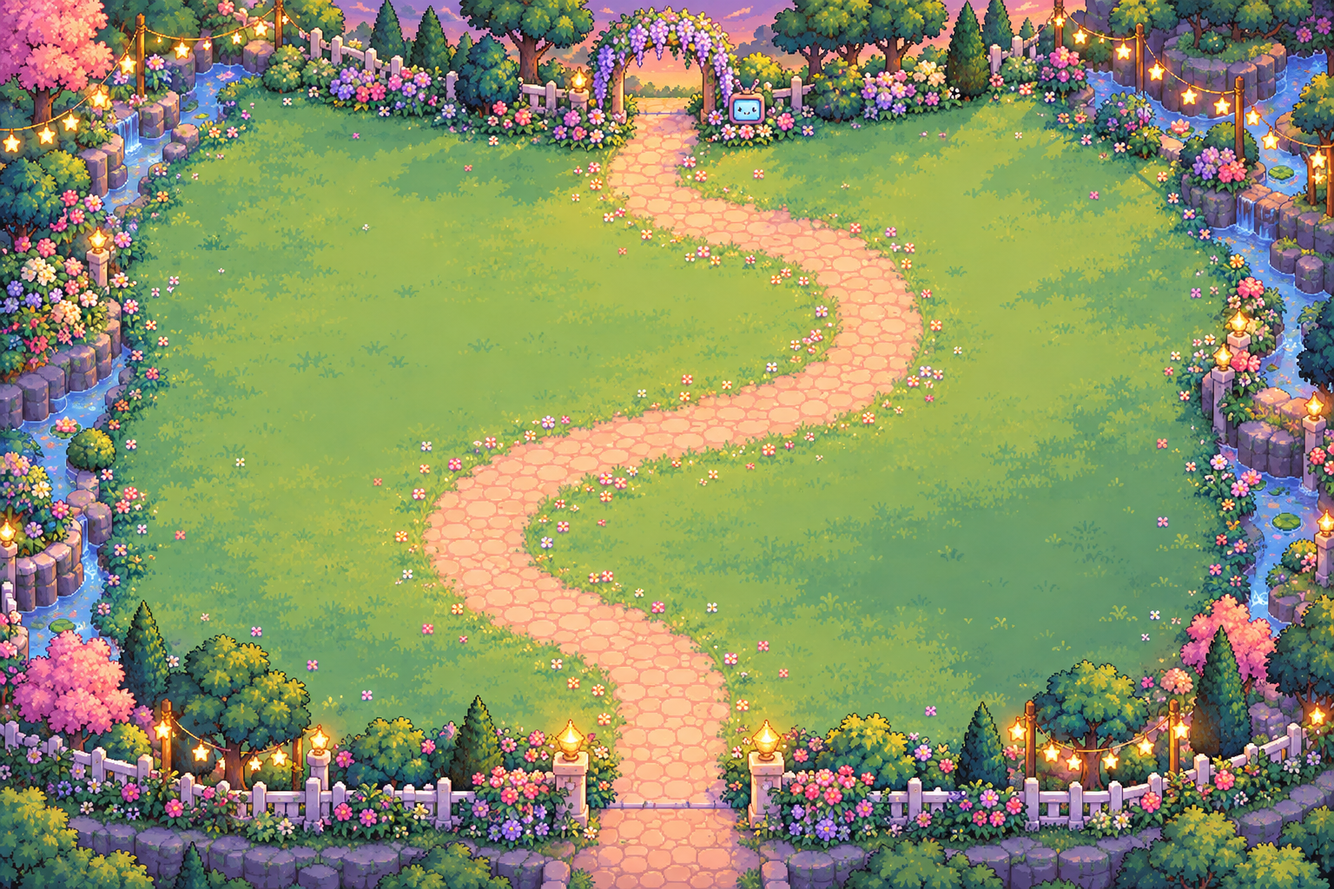
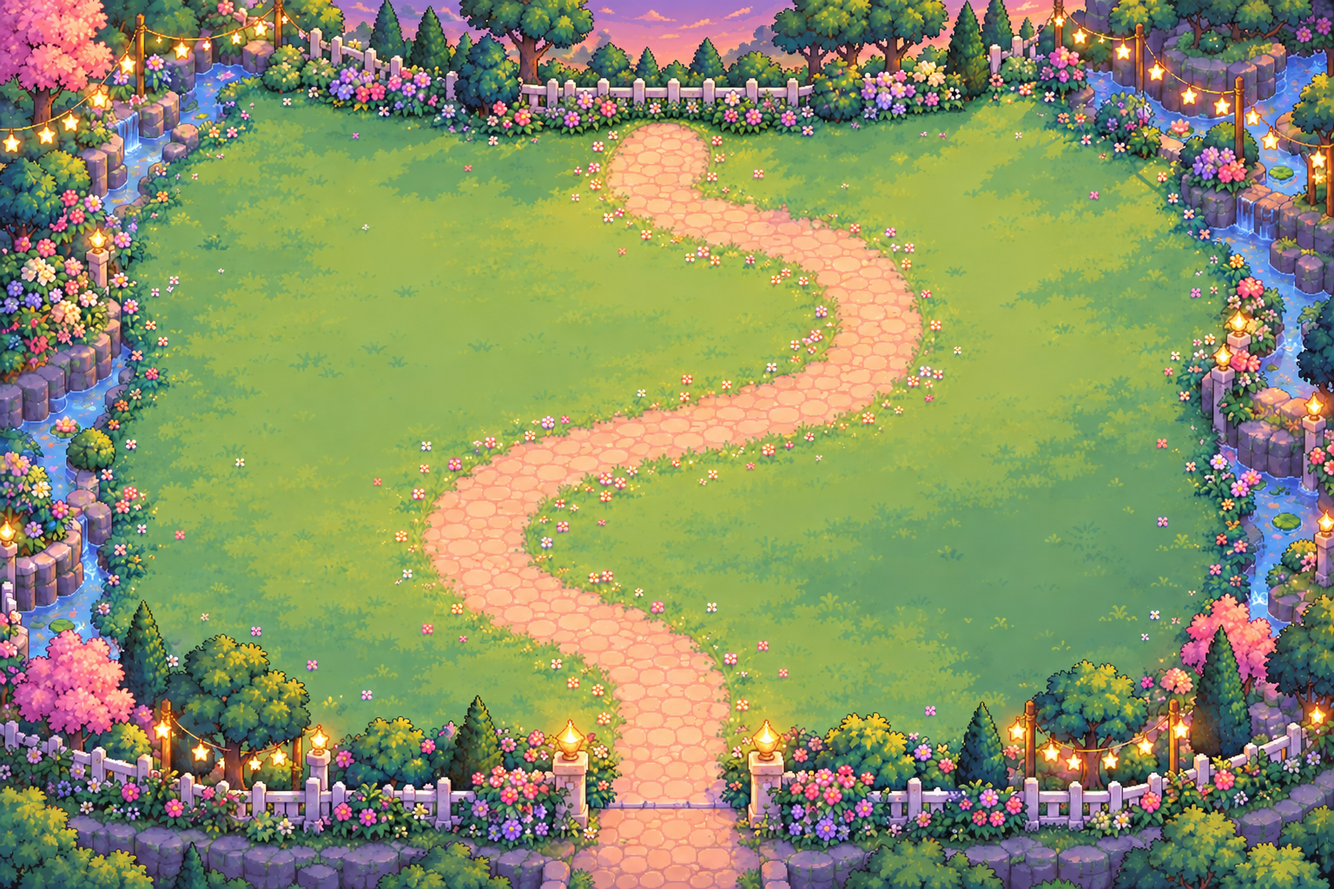
Refine cottage doormat and remove unused garden furnishings

diff --git a/src/door-rug.ts b/src/door-rug.ts
@@ -1,0 +1,92 @@
+// A small floor textile, drawn once at map-pixel resolution. Its gently flared
+// sides follow the room floor; the woven edge and fringe stay above y = 381.
+let rug: HTMLCanvasElement | undefined;
+
+function weaveRug() {
+  const canvas = document.createElement("canvas");
+  canvas.width = 80; canvas.height = 24;
+  const c = canvas.getContext("2d")!;
+  const pixel = (color: string, x: number, y: number, w = 1, h = 1) => {
+    c.fillStyle = color; c.fillRect(x, y, w, h);
+  };
+  const edgeAt = (y: number) => 8 - Math.floor(y / 6);
+
+  // A low, warm contact shadow, never a raised pedestal beneath the mat.
+  pixel("#80574724", 5, 21, 70, 2);
+  pixel("#80574712", 9, 23, 62);
+
+  // Knotted short cotton fringes follow both receding side edges.
+  for (let y = 4; y < 21; y += 3) {
+    const edge = edgeAt(y);
+    pixel("#bfa7a6", edge - 4, y + 1, 5);
+    pixel("#f2e3c7", edge - 4, y, 4);
+    pixel("#ddc8bd", edge - 5, y + (y % 2), 1);
+    pixel("#bfa7a6", 79 - edge, y + 1, 5);
+    pixel("#f2e3c7", 80 - edge, y, 4);
+    pixel("#ddc8bd", 84 - edge, y + (y % 2), 1);
+  }
+
+  for (let y = 0; y < 22; y++) {
+    const edge = edgeAt(y) + (y === 0 || y === 21 ? 1 : 0);
+    pixel(y === 21 ? "#b496a4" : "#bba2b4", edge, y, 80 - edge * 2);
+    if (y < 1 || y > 20) continue;
+    pixel(y % 3 === 0 ? "#dac6ce" : "#e9d7d5", edge + 1, y, 78 - edge * 2);
+    if (y < 4 || y > 17) continue;
+    pixel(y % 3 === 0 ? "#e9d9c4" : "#efe1cc", edge + 4, y, 72 - edge * 2);
+    // Broken, staggered warp threads: no hard checkerboard or flat fill.
+    for (let x = edge + 5; x < 75 - edge; x += 3) {
+      if ((x + y) % 4 === 0) pixel("#f7ecd8", x, y);
+      else if ((x * 3 + y * 7) % 11 === 0) pixel("#ddcdbf", x, y);
+    }
+  }
+
+  // Lilac binding, alternating cream stitches, and a rose inner running seam.
+  for (const y of [2, 19]) {
+    const edge = edgeAt(y);
+    for (let x = edge + 2; x < 78 - edge; x += 4) {
+      pixel("#c2b0c5", x, y, 2);
+      pixel("#f8ead7", x + 2, y + (y === 2 ? 1 : -1));
+    }
+  }
+  for (let y = 5; y < 18; y += 3) {
+    const edge = edgeAt(y);
+    pixel("#d0adb8", edge + 2, y);
+    pixel("#d0adb8", 77 - edge, y);
+  }
+
+  const blossom = (x: number, y: number) => {
+    pixel("#d6b0bd", x - 1, y - 1, 3, 3);
+    pixel("#f8e9db", x, y - 2); pixel("#f8e9db", x, y + 2);
+    pixel("#f8e9db", x - 2, y); pixel("#f8e9db", x + 2, y);
+    pixel("#d6b784", x, y);
+  };
+  // Two little floral sprays leave the middle embroidery breathing room.
+  for (const [x, direction] of [[19, -1], [60, 1]]) {
+    pixel("#b3b49a", x + direction * 2, 14, 3);
+    pixel("#a9af95", x + direction * 5, 12, 2);
+    pixel("#c0c2a8", x + direction * 6, 11);
+    blossom(x, 10);
+    pixel("#cbb7d1", x + direction * 7, 16, 2);
+    pixel("#e8dbe4", x + direction * 7, 15);
+  }
+
+  // A softly stitched pink fox: cream cheeks, tiny green/rose eyes and a curl.
+  pixel("#c69baa", 33, 6, 3, 4); pixel("#c69baa", 44, 6, 3, 4);
+  pixel("#f4ddcf", 34, 7, 1, 2); pixel("#f4ddcf", 45, 7, 1, 2);
+  pixel("#d9acbb", 35, 8, 10, 2);
+  pixel("#d9acbb", 34, 10, 12, 5);
+  pixel("#d9acbb", 33, 11, 14, 3);
+  pixel("#cba2af", 35, 15, 10);
+  pixel("#ecd3ce", 38, 16, 4);
+  pixel("#f7ead6", 34, 12, 4, 2); pixel("#f7ead6", 42, 12, 4, 2);
+  pixel("#f4e3cf", 36, 14, 8); pixel("#f4e3cf", 38, 13, 4, 3);
+  pixel("#8fa39a", 36, 11); pixel("#b47e92", 43, 11);
+  pixel("#aa7a8d", 39, 13, 2);
+  pixel("#e9c5ce", 39, 7, 2); pixel("#e9c5ce", 41, 8);
+  return canvas;
+}
+
+export function drawDoorRug(context: CanvasRenderingContext2D) {
+  rug ??= weaveRug();
+  context.drawImage(rug, 260, 357);
+}

diff --git a/src/nature.ts b/src/nature.ts
@@ -224,7 +224,8 @@ export class Nature {
       return true;
     }
     if (id === "rest") {
-      const bench = this.world.config.spots.find((s) => s.id === "rest")!;
+      const bench = this.world.config.spots.find((s) => s.id === "rest");
+      if (!bench) return false;
       this.world.sit(bench, bench.approach);
       this.activities.menu(
         `在长椅上坐下了 · 现在是${phaseNames[this.clock.phase]}，歇一会再走吧`,
@@ -258,7 +259,7 @@ export class Nature {
     }
     const spot = this.world.config.spots.find((s) => s.id === id)!;
     if (!this.available(spot)) {
-      this.toast("这份小惊喜正在等另一个时刻。坐坐长椅，也许会有新发现。");
+      this.toast("这份小惊喜正在等另一个时刻。去勇气花园的长椅歇一会，也许会有新发现。");
       return true;
     }
     this.mark(id);
@@ -352,7 +353,7 @@ export class Nature {
     time.textContent = ruins ? "♫ 遗迹 · 长明灯" : meadow ? "☾ 花海 · 静夜" : `${{ dawn: "☀", day: "☀", dusk: "◒", night: "☾" }[clock.phase]} ${clock.label} · ${phaseNames[clock.phase]}`;
     time.setAttribute(
       "title",
-      ruins ? "地底的石灯昼夜长明" : meadow ? "花海长夜，庭院的时钟仍在走动" : `第 ${clock.day} 天 · 现实十分钟为一天；花园长椅可休息到下一时段`,
+      ruins ? "地底的石灯昼夜长明" : meadow ? "花海长夜，庭院的时钟仍在走动" : `第 ${clock.day} 天 · 现实十分钟为一天；勇气花园长椅可休息到下一时段`,
     );
     document.querySelector(".bag-count")!.textContent =
       `苹果 ${this.state.apple} · 花朵 ${this.state.flower} · 星屑 ${this.state.star}`;
@@ -367,7 +368,7 @@ export class Nature {
     );
     crown.setAttribute("aria-pressed", String(wearing));
     document.querySelector(".day-hint")!.textContent = ruins ? "石廊里的三块铭文，记着一段遗忘的晚安。" : meadow ? "草间有落星，营火旁有一只收着星光的玻璃瓶。" :
-      `第 ${clock.day} 天 · 十分钟一昼夜 · ${clock.phase === "dawn" ? "晨露花醒来了" : clock.phase === "dusk" ? "溪边漂来一只纸船" : clock.phase === "night" ? "萤火心愿悄悄出现" : "找长椅休息，等一场黄昏和星夜"}`;
+      `第 ${clock.day} 天 · 十分钟一昼夜 · ${clock.phase === "dawn" ? "晨露花醒来了" : clock.phase === "dusk" ? "溪边漂来一只纸船" : clock.phase === "night" ? "萤火心愿悄悄出现" : "去勇气花园的长椅休息，等一场黄昏和星夜"}`;
   }
   refreshClock() {
     this.lastUi = 0;
@@ -442,7 +443,7 @@ export class Nature {
       return [];
     const scene = this.world.scene,
       apple = this.world.config.spots.find((s) => s.id === "apple")!,
-      bench = this.world.config.spots.find((s) => s.id === "rest")!;
+      bench = this.world.config.spots.find((s) => s.id === "rest");
     return [
       ...(scene === "garden" ? [{ y: 479, draw: (c: CanvasRenderingContext2D) => this.world.drawMapFragment(c, gardenSign) }] : []),
       ...gardenTrees[scene].map((tree) => ({
@@ -465,13 +466,13 @@ export class Nature {
           }
         },
       },
-      {
+      ...(bench ? [{
         y: bench.y - 4,
         draw: (c: CanvasRenderingContext2D) => {
           if (this.benchImage.complete && this.benchImage.naturalWidth)
             c.drawImage(this.benchImage, bench.x - 38, bench.y - 25, 76, 46);
         },
-      },
+      }] : []),
     ];
   }
   private lighting(c: CanvasRenderingContext2D) {

diff --git a/src/help.ts b/src/help.ts
@@ -11,7 +11,7 @@ export const helpMarkup = `
     <div><dt>寻找互动</dt><dd>留意物件边缘偶尔闪过的微光；走近后会出现「翻开相册」「与红笺交谈」等动作提示。键盘操作显示 E，鼠标远处悬停显示「点击走近」，手机可以轻触。花朵、星星与遗迹机关保留自己的光效；关闭背包或收起对白后，附近的提示会重新出现。</dd></div>
     <div><dt>背包与衣橱</dt><dd>点地图左侧的草莓背包或按 B。点格子试穿，用人物下方的箭头转身。「佩戴」确认搭配，「脱下」取下饰品，桃桃和棉棉可选「同行」或「休息」。粉框标出当前选择，绿勾标出身上的物品。换好一件可以接着挑，按 B / Esc 或点 × 收起，未确认的试穿会取消。H 可快捷戴上或摘下花环。</dd></div>
     <div><dt>找配饰与纪念物</dt><dd>衣橱可以按头饰、衣服、鞋子、背包、胸针、同行伙伴筛选。「全部」可以看整套收藏。手机点部位按钮选分类，用箭头翻页，点「身上」查看当前搭配。青芽送的洋桔梗和守护者赠的书收在「纪念物」里。</dd></div>
-    <div><dt>菜单与返回</dt><dd>Tab / Shift+Tab 切换按钮，Enter / 空格确认，也可直接用鼠标点击。探索时打开背包可继续走动、点击地图和使用触屏方向。小游戏中打开衣橱会暂停本局，B / Esc 收起后继续。小游戏按 P 或「暂停休息」暂停；切到其他窗口后会自动暂停，回来按 P / E 或「继续挑战」。坐下或躺下后按 E、方向键或「起身」继续探索。</dd></div>
+    <div><dt>菜单与返回</dt><dd>Tab / Shift+Tab 切换按钮，Enter / 空格确认，也可直接用鼠标点击。探索时打开背包可继续走动、点击地图和使用触屏方向。小游戏中打开衣橱会暂停本局，B / Esc 收起后继续。小游戏按 P 或「暂停休息」暂停；切到其他窗口后会自动暂停，回来按 P / E 或「继续挑战」。勇气花园的长椅可以坐下休息并等到下一时段，小屋的床可以躺下；按 E、方向键或「起身」继续探索。</dd></div>
     <div><dt>周年小互动</dt><dd>蜡烛：按住 E / 空格 / 右键，或长按场景按钮吹灭。蛋糕：用鼠标依次沿三条虚线拖动，切成六份；也可按 E / 空格辅助切割。点小蛋糕或「吃一块」观看芙芙吃蛋糕。礼物：点或向外拖开两端缎带，也可按 1 解开左端、按 2 解开右端。之后按 E / 空格掀开盒盖、收下心意，收到缎带鞋后可以从背包穿上。气球和烟花：点场景按钮或按互动键。</dd></div>
     <div><dt>小屋回忆相册</dt><dd>翻开相册，可以看芙芙的四幅日常插画：早餐、读书、练贝斯和陪小狐狸。点缩略图或用 Tab、Enter 选图，Esc 收起继续探索。</dd></div>
     <div><dt>小镇与遗迹小游戏</dt><dd>贪吃蛇用方向键。方块左右移动、上键旋转、下键加速、空格落下。跳一跳长按蓄力、松开跳。晚安飞行轻按空格拍翅，碰到的星星会消失。连连看点击相同图案，或方向键选格、空格确认，有提示和洗牌。黄金矿工看准方向按空格放钩。每款游戏都支持鼠标和触屏。达标领奖后选「继续游玩」，双倍目标另有奖励，Esc 离开。</dd></div>

diff --git a/src/maps.ts b/src/maps.ts
@@ -357,11 +357,11 @@ export const scenes: Record<SceneId, Scene> = {
     width: 900,
     height: 600,
     bounds: { x: 56, y: 51, w: 789, h: 525 },
-    // Inside the banks and the woodland, with independent openings at both arches.
+    // The north edge ends at the flowering hedge; only the southern gate is an exit.
     floor: [
       [96,135],[109,114],[128,96],[157,87],[164,72],[193,68],[224,72],
-      [248,78],[282,77],[319,87],[351,97],[392,104],[415,99],[420,75],
-      [469,75],[475,94],[491,99],[524,94],[557,89],[588,85],[620,80],
+      [248,78],[282,77],[319,87],[351,97],[392,104],
+      [491,99],[524,94],[557,89],[588,85],[620,80],
       [648,72],[675,65],[705,65],[730,81],[749,98],[775,106],[784,124],
       [786,151],[802,171],[822,181],[833,202],[821,226],[810,242],[803,259],
       [809,287],[825,306],[831,325],[824,347],[817,370],[810,399],[815,415],
@@ -480,10 +480,20 @@ for (const id of ["garden", "challenge"] as const) {
   }
   const flowers = id === "garden" ? { x: 548, y: 410 } : { x: 170, y: 267 };
   const drop = id === "garden" ? { x: 590, y: 365 } : { x: 295, y: 225 };
-  const bench = id === "garden" ? { x: 385, y: 420 } : { x: 560, y: 430 };
-  outdoor.walls.push(polygon("休息长椅", [
-    [-27,0],[26,0],[30,6],[28,16],[22,18],[20,13],[-19,13],[-21,18],[-27,16],[-30,7],
-  ].map(([dx,dy]) => [bench.x+dx,bench.y+dy])));
+  if (id === "challenge") {
+    const bench = { x: 560, y: 430 };
+    outdoor.walls.push(polygon("休息长椅", [
+      [-27,0],[26,0],[30,6],[28,16],[22,18],[20,13],[-19,13],[-21,18],[-27,16],[-30,7],
+    ].map(([dx,dy]) => [bench.x+dx,bench.y+dy])));
+    outdoor.spots.push({
+      id: "rest",
+      title: "在勇气花园里歇一会",
+      ...bench,
+      approach: { x: 560, y: 457 },
+      radius: 50,
+      color: "#97c9ce",
+    });
+  }
   outdoor.spots.push(
     {
       id: "apple",
@@ -522,15 +532,6 @@ for (const id of ["garden", "challenge"] as const) {
       approach: { x: drop.x, y: drop.y + 15 },
       radius: 38,
       color: "#e4c776",
-    },
-    {
-      id: "rest",
-      title: "在花园里歇一会",
-      x: id === "garden" ? 385 : 560,
-      y: id === "garden" ? 420 : 430,
-      approach: id === "garden" ? { x: 385, y: 447 } : { x: 560, y: 457 },
-      radius: 50,
-      color: "#97c9ce",
     },
     {
       id: "dew",

diff --git a/tests/rest.test.ts b/tests/rest.test.ts
@@ -24,20 +24,30 @@ test("the single respawn destination is the bed, with a safe exit from its solid
     "outdoor lights must not become respawn locations",
   );
 });
-test("every garden seat has a safe get-up position outside the bench collider", () => {
-  for (const name of ["garden", "challenge"] as const) {
-    const scene = scenes[name],
-      spot = scene.spots.find((s) => s.id === "rest")!;
-    const rest = benchRest(name, spot, spot.approach);
-    assert.equal(rest.kind, "sitting");
-    assert.equal(
-      canStand(rest.anchor, scene.walls, scene.bounds, scene.floor),
-      false,
-    );
-    assert.equal(
-      canStand(rest.exit, scene.walls, scene.bounds, scene.floor),
-      true,
-    );
+test("the courage garden seat has a safe get-up position outside the bench collider", () => {
+  const scene = scenes.challenge,
+    spot = scene.spots.find((s) => s.id === "rest")!;
+  const rest = benchRest("challenge", spot, spot.approach);
+  assert.equal(rest.kind, "sitting");
+  assert.equal(
+    canStand(rest.anchor, scene.walls, scene.bounds, scene.floor),
+    false,
+  );
+  assert.equal(
+    canStand(rest.exit, scene.walls, scene.bounds, scene.floor),
+    true,
+  );
+});
+test("the anniversary garden has no seat interaction or invisible bench obstacle", () => {
+  const scene = scenes.garden;
+  assert.equal(scene.spots.some((spot) => spot.id === "rest"), false);
+  assert.equal(scene.walls.some((wall) => wall.label === "休息长椅"), false);
+  for (const [from, to] of [
+    [{ x: 340, y: 434 }, { x: 430, y: 434 }],
+    [{ x: 400, y: 400 }, { x: 400, y: 455 }],
+  ]) {
+    assert.equal(canTravelBetween(from, to, scene), true,
+      "the removed bench footprint must allow continuous walking");
   }
 });
 test("stream water is solid while each wooden bridge permits a crossing", () => {

diff --git a/tests/exploration-fixture.ts b/tests/exploration-fixture.ts
@@ -691,20 +691,24 @@ Object.assign(window, { contentQA: {
   ready: () => !!world && !q<HTMLButtonElement>(".enter-button").disabled,
   catalogue: () => producers.map(person => ({...person})),
   snapshot: () => ({scene:world.scene, player:{...world.player}, paused:world.paused,
-    suspended:world.suspended, activeCue:world.activeCueId, progress:state(),
+    suspended:world.suspended, activeCue:world.activeCueId, rest:world.restState && {...world.restState}, progress:state(),
     canvas:world.canvas.getBoundingClientRect().toJSON(), scrollY,
     focused:document.activeElement===world.canvas ? "canvas" : (document.activeElement as HTMLElement)?.className}),
-  async visit(scene: Parameters<World["switchScene"]>[0], id?: string) {
+  async visit(scene: Parameters<World["switchScene"]>[0], id?: string, at?: {x: number; y: number}) {
     closeStarReader(); closeStarBottle();
     await world.prepareScene(scene);
     const config=scene==="town"?world.townMap:scenes[scene];
-    world.switchScene(scene,id?config.spots.find(s=>s.id===id)?.approach:config.spawn);
+    world.switchScene(scene,at ?? (id?config.spots.find(s=>s.id===id)?.approach:config.spawn));
     world.setCueInput("keyboard");
     await new Promise<void>(resolve=>requestAnimationFrame(()=>requestAnimationFrame(()=>resolve())));
   },
   point(id: string) {
     const spot=world.config.spots.find(s=>s.id===id)!;
     const p=world.project({x:spot.x,y:interactionHitY(spot)}),r=world.canvas.getBoundingClientRect();
+    return {x:r.left+p.x*r.width/600,y:r.top+p.y*r.height/400};
+  },
+  pointAt(x: number, y: number) {
+    const p=world.project({x,y}),r=world.canvas.getBoundingClientRect();
     return {x:r.left+p.x*r.width/600,y:r.top+p.y*r.height/400};
   },
   canvasImage: () => world.canvas.toDataURL(),

diff --git a/tests/journey.test.ts b/tests/journey.test.ts
@@ -15,6 +15,16 @@ test("resuming respects existing collision, hazards and the seven-flower lock", 
   for (const pos of [scenes.challenge.hazards[0],{x:-999,y:88}])
     assert.deepEqual(restore("challenge", pos),{scene:"challenge",...scenes.challenge.spawn,savedAt});
 });
+test("saved positions remain safe after removing the anniversary bench and closing the north gate", () => {
+  const oldNorth = readJourney(JSON.stringify({scene:"challenge",x:450,y:86,savedAt}),[]);
+  assert.deepEqual(oldNorth,{scene:"challenge",...scenes.challenge.spawn,savedAt},
+    "a save inside the former north opening returns to the safe south entrance");
+  for (const flowers of [[],rainbowIds]) {
+    const oldBenchExit = {scene:"garden",x:385,y:447,savedAt};
+    assert.deepEqual(readJourney(JSON.stringify(oldBenchExit),flowers),oldBenchExit,
+      "removing the bench does not move players saved at its former get-up point");
+  }
+});
 test("malformed location data cannot enter an unknown scene or disturb earned records", () => {
   for (const raw of [null, "{", "null", JSON.stringify({scene:"constructor",x:30,y:40,savedAt}),
     JSON.stringify({scene:["room"],x:40,y:40,savedAt}), JSON.stringify({scene:"room",x:40,y:40,savedAt:Number.MAX_SAFE_INTEGER}),

diff --git a/tests/map-footprints.test.ts b/tests/map-footprints.test.ts
@@ -35,10 +35,11 @@ test("both stream bridges admit crossings in each direction and stop feet at eit
   }
 });
 
-test("the courage garden follows its riverbanks, woodland and two visible gate openings", () => {
-  checkFeet("challenge", [[92,270],[784,325],[135,151],[450,86],[450,557]],
-    [[610,520],[194,504],[829,265],[399,551]]);
+test("the courage garden ends at the north hedge and keeps its flower approach and south exit open", () => {
+  checkFeet("challenge", [[92,270],[784,325],[135,151],[450,125],[450,557]],
+    [[610,520],[194,504],[829,265],[399,551],[450,86]]);
   assert.ok(canTravelBetween({x:450,y:510},{x:450,y:560},scenes.challenge));
+  assert.deepEqual(scenes.challenge.spots.filter(spot => spot.portal).map(spot => spot.id), ["return-gate"]);
 });
 
 test("the two bronze mirror bases are solid and the engraved star tile stays walkable", () => {

diff --git a/src/world.ts b/src/world.ts
@@ -28,6 +28,7 @@ import { enteredMoonCircle } from "./meadow-map";
 import { surfaceOutline } from "./collision";
 import { trapFootprint } from "./trap-art";
 import { drawGardenHazard } from "./garden-hazards";
+import { drawDoorRug } from "./door-rug";
 import {
   advancePath,
   canStand,
@@ -764,12 +765,7 @@ export class World {
     const view = this.visibleArea;
     this.paintMap(c, view.x, view.y, Math.min(view.w, width - view.x), Math.min(view.h, height - view.y));
     this.onEnvironment(c, this.time);
-    if (this.scene === "room") {
-      c.fillStyle = "#8171b0";
-      c.fillRect(274, 368, 52, 11);
-      c.fillStyle = "#c9b8e5";
-      c.fillRect(278, 370, 44, 7);
-    }
+    if (this.scene === "room") drawDoorRug(c);
     this.drawHazards();
     const drawPlayer = () => {
       if (this.actorHidden) return;

diff --git a/tests/day.test.ts b/tests/day.test.ts
@@ -31,7 +31,7 @@ test("one real ten-minute interval is exactly one complete world day", () => {
   assert.equal(worldTime(300).phase, "night");
   assert.equal(worldTime(525).phase, "dawn");
 });
-test("the garden bench advances to each exclusive easter-egg window", () => {
+test("the courage garden bench advances to each exclusive easter-egg window", () => {
   let elapsed = 0;
   for (const phase of ["dusk", "night", "dawn", "day"]) {
     elapsed += untilNextPhase(elapsed);

diff --git a/README.md b/README.md
@@ -57,7 +57,7 @@ npm run preview
 - 所有小游戏直接在地图里绘制和操作，蛋糕与礼物会拉近原场景镜头。烟花从实际烟花筒升空、气球从摊位飞走、视频在花园大屏播放。信箱支持地图内阅读或在页面展开，相册等媒体使用只读阅读区；生产页面没有 dialog 或遮罩弹窗。
 - 家具碰撞、自动寻路、室外镜头跟随、本机探索进度、原创浏览器合成 BGM 与音效、减少动态效果支持。音乐、音效分别开关，音量使用加减按钮。
 - 四种陷阱集中在第三张「勇气花园」：松落的花藤、翘起的苔石、溪边薄雾、卷叶小风。它们贴合草地与石路，走近会出现「小挫折」提示。小屋与周年花园没有陷阱；普通家具仍有碰撞。所有陷阱都固定让芙芙回到小屋的床上躺下，已完成的心愿与回忆保留，不再有户外复活点。
-- 小屋的床可以主动躺下，长椅互动后会真正坐下。按 E、方向键、虚拟方向键或场景中的「起身」按钮离开休息姿势；起身回到床边或椅子前的安全位置。走到勇气花园终点可摘勇气之花，完成第五个心愿。
+- 小屋的床可以主动躺下，勇气花园的长椅互动后会真正坐下。按 E、方向键、虚拟方向键或场景中的「起身」按钮离开休息姿势；起身回到床边或椅子前的安全位置。走到勇气花园终点可摘勇气之花，完成第五个心愿。
 - 两座花园增加了树木和可以走近的小溪，溪水有流动纹理，木桥允许横穿；水面有独立碰撞。绊脚石、长椅、花环与休息姿势使用细化的像素素材，烟花提供心形、星形与金色花火，带升空尾迹和闪光细节。
 - 可以摘苹果、采花、捡花环与星屑，采摘后物件会变化。按 **H** 或点击场景按钮快捷戴上/摘下花环，也可以按 **B** 或点地图左侧的草莓背包整理饰品。每天每棵树有三颗苹果、每片花丛可采三朵，下一游戏日刷新，累计数量保留。
 - 小镇有错落的主街、分岔小巷、阶梯院落、心形小广场、池塘和溪边街道；花店、烘焙屋、工坊、邮局、相册书屋和晚安电台沿街分散。15 名原创虚构 NPC 可在地图内交谈，迎宾员可赠送周年胸针。
@@ -148,7 +148,7 @@ npm run preview
 
 现实 **600 秒 = 游戏一天**。初次打开从 08:00 开始。小屋、两座花园和小镇共享昼夜变化。花海保持月夜，遗迹由长明灯照明，在两处停留时外界时钟继续走。清晨为 05:00–08:00，白昼为 08:00–17:00，黄昏为 17:00–20:00，星夜为 20:00–次日 05:00。刷新和切地图都会保留时间进度。
 
-花园的长椅可以「歇到下一个时段」，无需一直等待。清晨出现晨露花，黄昏出现小纸船，夜间出现萤火心愿；限定物件及其提示只在对应时段出现，每座花园每天各能收集一次。时间规则在 `src/day.ts`，场景变化、采摘和本机背包在 `src/nature.ts`。
+勇气花园的长椅可以「歇到下一个时段」，无需一直等待。清晨出现晨露花，黄昏出现小纸船，夜间出现萤火心愿；限定物件及其提示只在对应时段出现，每座花园每天各能收集一次。时间规则在 `src/day.ts`，场景变化、采摘和本机背包在 `src/nature.ts`。
 
 夜色保留较明亮的地图底色、暖色灯光和月夜变化。烟花绽放时会在夜空中浮现周年祝福，逐渐升起、淡出；预设文字在 `src/celebration.ts` 的 `fireworkWishes` 中维护，不需要访客输入或后端。
 

diff --git a/ARTWORK-v43.md b/ARTWORK-v43.md
@@ -1,0 +1,25 @@
+# 小屋门垫与花园整理（v43）
+
+## 游戏内表现
+
+- 小屋门口用奶油粉紫色的编织门垫替换原来的两块矩形。原生 Canvas 图案包含短流苏、针脚、花叶和小狐狸刺绣，只在首次绘制时生成 80 × 24 像素的缓存。代码位于 `src/door-rug.ts`，绘制范围不越过门口地板；出口和碰撞不变。
+- 周年花园移除可坐长椅的绘制、互动点和碰撞。勇气花园长椅保留，仍可坐下和等待下一时段。
+- 勇气花园北侧无目的地的花拱门与电视路牌改为连续白色栅栏和花篱，石路在花篱前结束。同步封闭北侧步行边界，保留勇气之花前的空地、南门与其余通路。
+
+## 生成与资源
+
+北侧花篱使用内置 **imagegen** 的图片编辑模式，以已查看的 `src/assets/courage-garden.png` 为编辑目标；未使用 CLI。已将最终图片复制到项目内，原始输出仍保留在生成目录。
+
+- 原画：`src/assets/courage-garden.png`，1536 × 1024。
+- 运行资源：`src/assets/courage-garden.webp`，使用 Sharp 编码，`quality: 90, effort: 6`；`scripts/optimize-art.mjs` 可按相同参数重建。
+- 内置生成输出：`C:/Users/patrick/.codex/generated_images/01a19223-eccb-7b33-a445-e51d8f727202/exec-7f2ba6b6-70d8-4df2-aeb1-aaa100a70d48.png`。
+
+最终提示词：
+
+```text
+Use case: precise-object-edit. Edit target: the supplied existing 1536x1024 pixel-art garden game map. Remove ONLY the unusable flower-covered archway at the very top center (roughly x660..870 y0..165) and the little blue television sign beside it. Close that north border naturally with a continuous low white picket fence, layered green shrubs and modest pink/lavender flowers matching the adjacent top-border garden vegetation. No opening, doorway, portal, arch, sign, staircase or scenery leading through the northern border. The narrow peach paving reaching that former gate should now end calmly in a short rounded garden overlook just below the closed flowering hedge. Keep the grass and paving around x768 y190..235 clear for a small collectible flower that the game draws there. CRITICAL INVARIANTS: keep the canvas exactly 1536x1024 with identical composition, framing, scale and all object positions. The rest of the picture outside the small north-central region must be unchanged: the entire S-shaped stone path below y240, the south entrance, both edge streams/waterfalls, trees, lanterns, all grass and fence sections, overall colors, crisp pixel texture and lighting. This is a small local repair of an existing playable collision-mapped background, NOT a newly imagined map. Do not add any characters, text, new benches, items, big flowers, UI, logos or watermarks.
+```
+
+## 回归检查
+
+检查小屋门毯脚下通行与门口互动；周年花园原长椅的位置可横向、纵向穿过，没有残余提示；勇气花园北侧花篱不可越过，勇气之花仍可走近、南门正常返回。旧存档的原长椅前落点保持不变，原北门内落点安全回到出生点。
